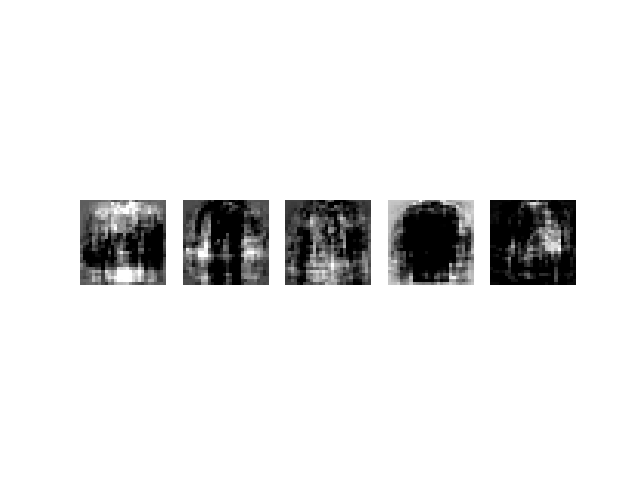
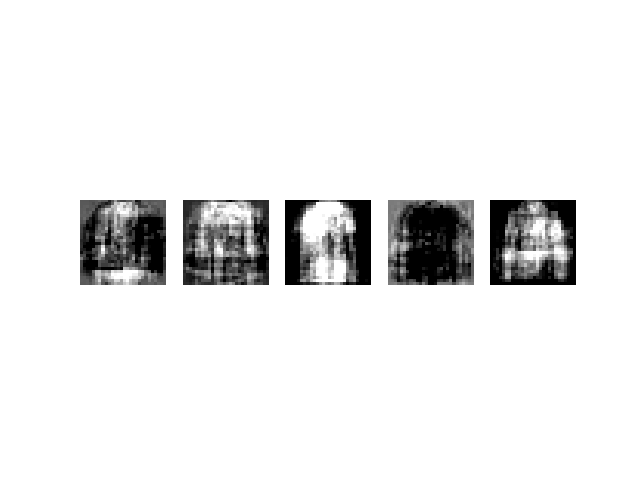
added 5e

Changed region(s): [[0.125, 0.4062, 0.9062, 0.5938]]

diff --git a/Exercise_5/template/template_5_1.py b/Exercise_5/template/template_5_1.py
@@ -1,7 +1,7 @@
 import numpy as np
 import utils
 
-OUT_PATH = 'out/pca'
+OUT_PATH = 'out/pca/sneaker/'
 
 def main():
     """The main function of this script."""
@@ -12,6 +12,19 @@ def main():
     # select an appropriate subset of x_train / x_test
     x_train, y_train = utils.load_fashion_mnist('train')
     x_test, y_test = utils.load_fashion_mnist('test')
+
+    # for EXERCISE 5.1e
+    # consider only the class 'Sneaker' --> ID = 7
+    labels_mask = [7]
+    train_mask = np.zeros(len(y_train), dtype=bool)
+    test_mask = np.zeros(len(y_test), dtype=bool)
+    train_mask[(y_train == labels_mask[0])] = 1 # | (y_train == labels_mask[1])] = 1
+    test_mask[(y_test == labels_mask[0])] = 1 # | (y_test == labels_mask[1])] = 1
+    x_train = x_train[train_mask, :]
+    x_test = x_test[test_mask, :]
+#    y_train = np.array([1.0 if x == labels_mask[0] else 0.0 for x in x_train[train_mask]])[:, np.newaxis]
+#    y_test = np.array([1.0 if x == labels_mask[0] else 0.0 for x in y_test[test_mask]])[:, np.newaxis]
+
 
     mean, s, V = compute_pca(x_train.numpy())
 
